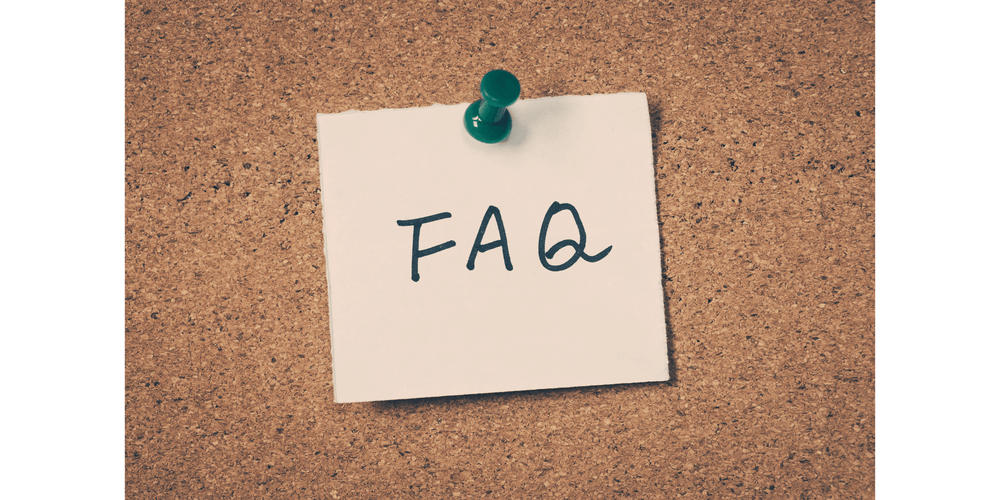
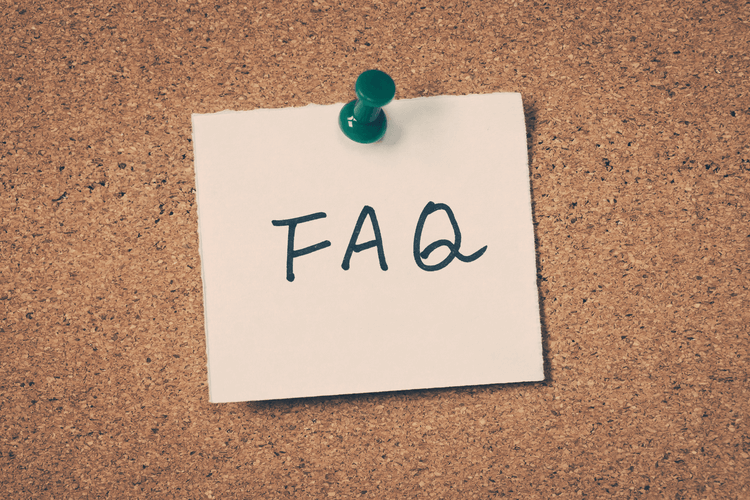
Worked on w12 assignment personal site subpage1

diff --git a/wwr/fixyourpc/styles/style.css b/wwr/fixyourpc/styles/style.css
@@ -190,3 +190,46 @@ footer a:hover {
 footer .social img {
     padding-top: 15px;
 }
+
+/* FAQ PAGE*/
+.title-faq {
+  text-align: center;
+  font-family: Kalam;
+}
+.faq-picture {
+  width: 50%;
+  border: 10px solid #26413C;
+}
+.faq-grid {
+  display: grid;
+  grid-template-columns: repeat(1, 1fr);
+  text-align: center;
+  box-sizing: border-box; 
+  align-items: center;
+  justify-items: center; 
+}
+.title-faq {
+  text-align: center;
+}
+.title-faq h2 {
+  margin-top: 70px;
+}
+.question{
+  background: #8AB0AB;
+  margin: 30px;
+  vertical-align: middle;
+  width: 70%;
+
+}
+.faq-grid .tip h3  {
+  font-size: 16px;
+  padding: 10px;
+}
+.faq-grid .tip p {
+  font-size: 14px;
+  padding: 10px;
+}
+.faq-grid .tip li {
+  font-size: 14px;
+  padding: 10px;
+}

diff --git a/wwr/fixyourpc/faq.html b/wwr/fixyourpc/faq.html
@@ -22,7 +22,7 @@
         <div class="title-faq">
             <h2>FAQ</h2>
             <p>Here you will find most common frequently asked questions</p>
-            <img src="images/faq1.png" alt="sticky note with faq word">
+            <img class="faq-picture" src="images/faq1.png" alt="sticky note with faq word">
         </div>
         <div class="faq-grid">
             <section class="question">
